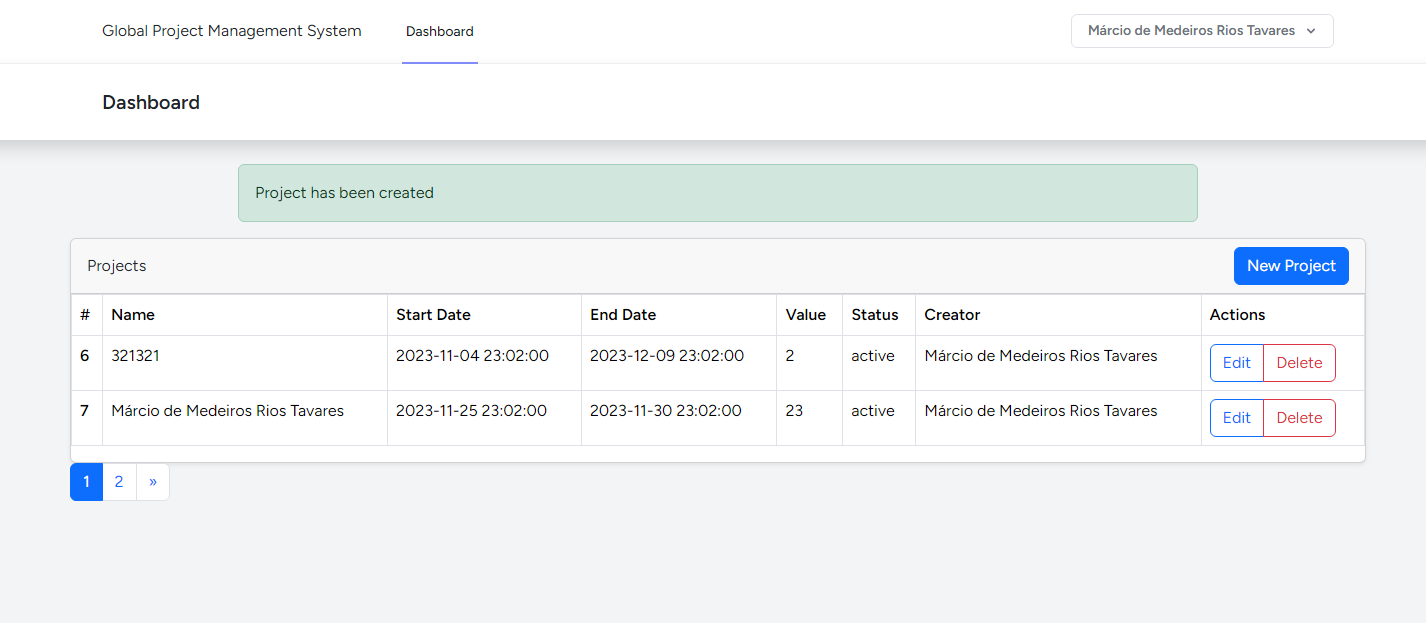
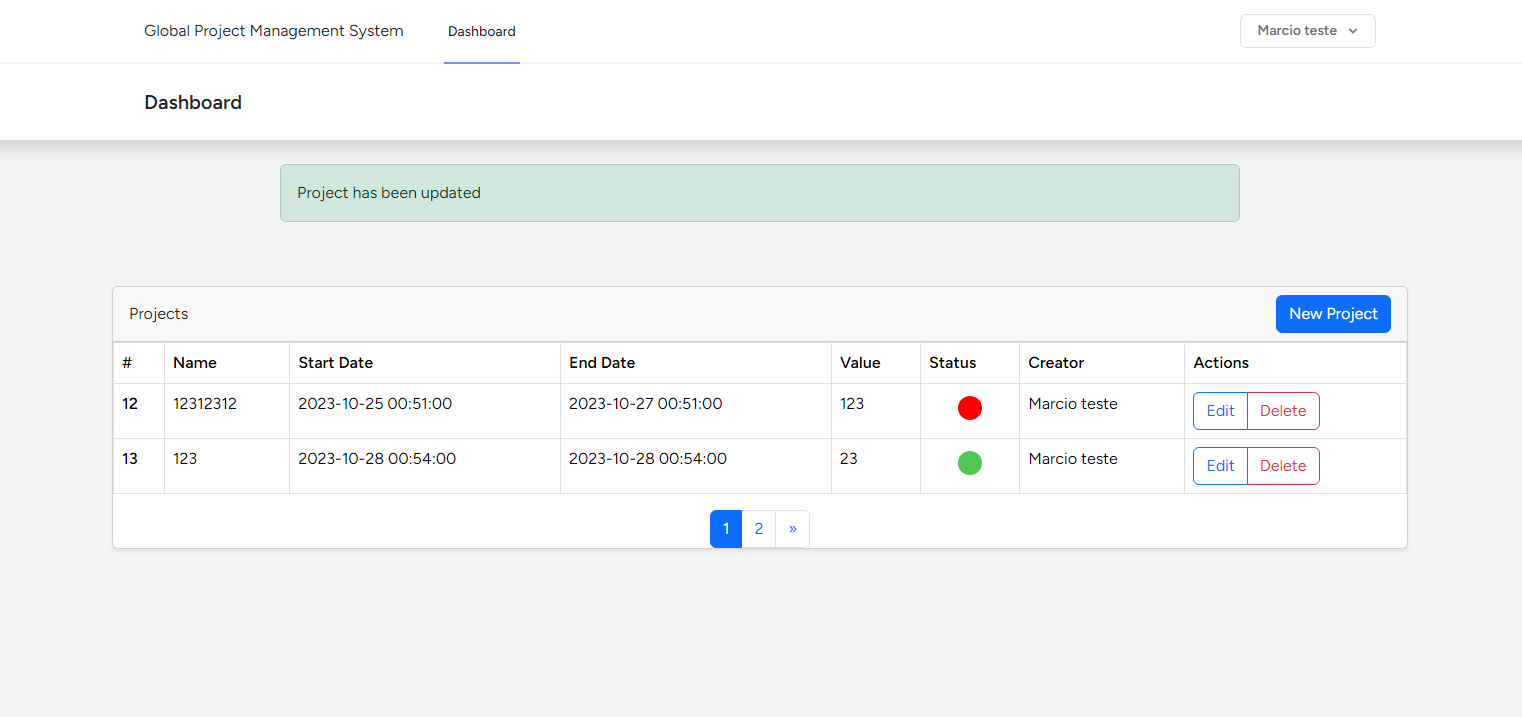
feat: status-color-table

diff --git a/resources/js/Pages/Dashboard.vue b/resources/js/Pages/Dashboard.vue
@@ -71,7 +71,7 @@
         <div v-if="alerts" class="alert w-50 mx-auto mt-6" role="alert" :class="alerts.type">
             {{ alerts.message }}
         </div>
-        <div class="container">
+        <div class="container py-12">
             <div class="overflow-hidden shadow-sm rounded card">
                 <div class="card-header d-flex justify-content-between align-items-center">
                     <p>Projects</p>
@@ -82,10 +82,12 @@
                 <div class="alert alert-danger" role="alert" v-if="responseErrors.error">
                     {{ responseErrors.error }}
                 </div>
-                <TableComponent :projects="data.data" @delete="deleteProject" @edit="getEditingProject" />
-            </div>
-            <div class="pagination">
-                <Bootstrap5Pagination :data="data" @pagination-change-page="getTableData" />
+                <div class="table-projects">
+                    <TableComponent :projects="data.data" @delete="deleteProject" @edit="getEditingProject" />
+                    <div class="pagination d-flex justify-content-center">
+                        <Bootstrap5Pagination :data="data" @pagination-change-page="getTableData" />
+                    </div>
+                </div>
             </div>
         </div>
 
@@ -108,7 +110,7 @@ export default {
     },
     data() {
         return {
-            alerts: {},
+            alerts: null,
             data: {},
             form: {
                 status: 'active',
@@ -187,7 +189,7 @@ export default {
         alerts(newAlerts) {
             if (newAlerts) {
                 setTimeout(() => {
-                    this.alerts = {};
+                    this.alerts = null;
                 }, 5000);
             }
         },

diff --git a/resources/js/Components/TableComponent.vue b/resources/js/Components/TableComponent.vue
@@ -20,7 +20,11 @@
           <td>{{ project.start_date }}</td>
           <td>{{ project.end_date }}</td>
           <td>{{ project.value }}</td>
-          <td>{{ project.status }}</td>
+          <td class="align-middle text-center">
+            <span class="status-circle d-inline-block"
+              :class="{ 'active': project.status == 'active', 'inactive': project.status == 'inactive' }">
+            </span>
+          </td>
           <td>{{ project.creator }}</td>
           <td>
             <div class="btn-group" role="group" aria-label="Basic example">
@@ -49,4 +53,18 @@ const emit = defineEmits(['delete', 'edit'])
 
 </script>
 
-<style scoped></style>
+<style scoped>
+.status-circle {
+  width: 24px;
+  height: 24px;
+  border-radius: 50%;
+}
+
+.active {
+  background-color: rgb(80, 199, 80);
+}
+
+.inactive {
+  background-color: red;
+}
+</style>

diff --git a/routes/web.php b/routes/web.php
@@ -19,15 +19,12 @@ require __DIR__ . '/auth.php';
 */
 
 Route::get('/', function () {
-    return Inertia::render('Welcome', [
-        'canLogin' => Route::has('login'),
-        'canRegister' => Route::has('register'),
-    ]);
+    return Inertia::render('Welcome');
 })->middleware('guest');
 
 Route::get('/dashboard', function () {
     return Inertia::render('Dashboard');
-})->middleware(['auth'])->name('dashboard');
+})->middleware('auth')->name('dashboard');
 
 Route::middleware('auth')->group(function () {
     Route::get('/profile', [ProfileController::class, 'edit'])->name('profile.edit');

diff --git a/app/Http/Controllers/ProjectController.php b/app/Http/Controllers/ProjectController.php
@@ -20,7 +20,6 @@ class ProjectController extends Controller
 
     public function store(Request $request)
     {
-
         $validator = Validator::make($request->all(), [
             'name' => 'required|string',
             'start_date' => 'required|date',

diff --git a/README.md b/README.md
@@ -13,7 +13,7 @@
 <br>
 
 <p align="center">
-  <img alt="Payment_api" src"./Screenshot_1.png" width="100%">
+  <img alt="Screenshot" src="https://imgur.com/0y1pXbL">
 </p>
 
 ## 🚀 Technologies
